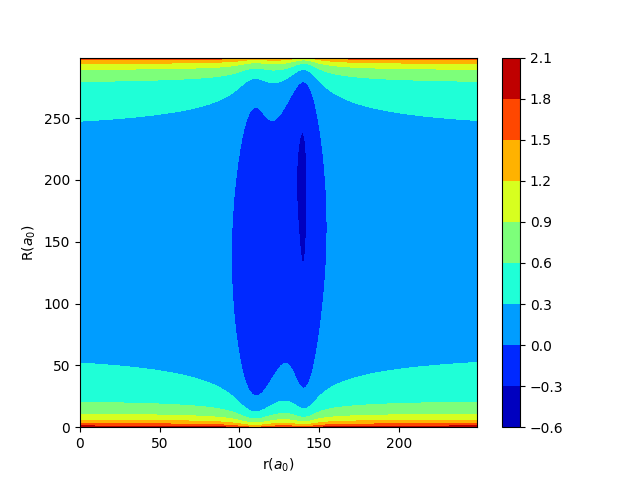
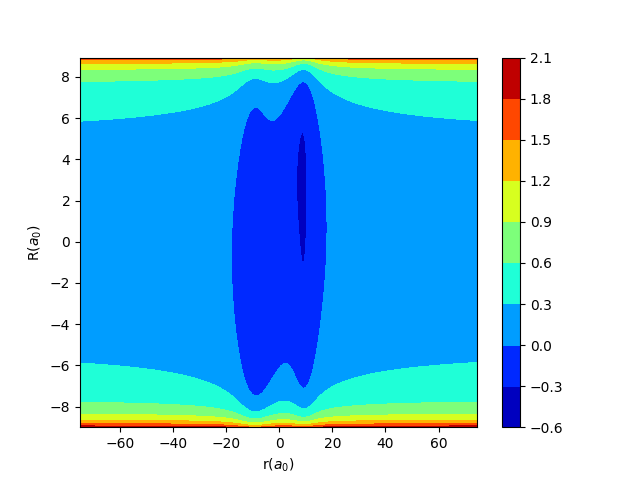
Added proper dimensions to full_potential plot.

diff --git a/full_hamiltonian.py b/full_hamiltonian.py
@@ -50,7 +50,7 @@ def build_hamiltonian():
     r_arr, R_arr = np.meshgrid(r_array, R_array)
     pot = SM_potential(r=r_arr, R=R_arr)
 
-    cont2d = plt.contourf(pot,cmap="jet")
+    cont2d = plt.contourf(r_array,R_array,pot,cmap="jet")
     plt.ylabel(r"R($a_0$)")
     plt.xlabel(r"r($a_0$)")
     plt.colorbar(cont2d)
